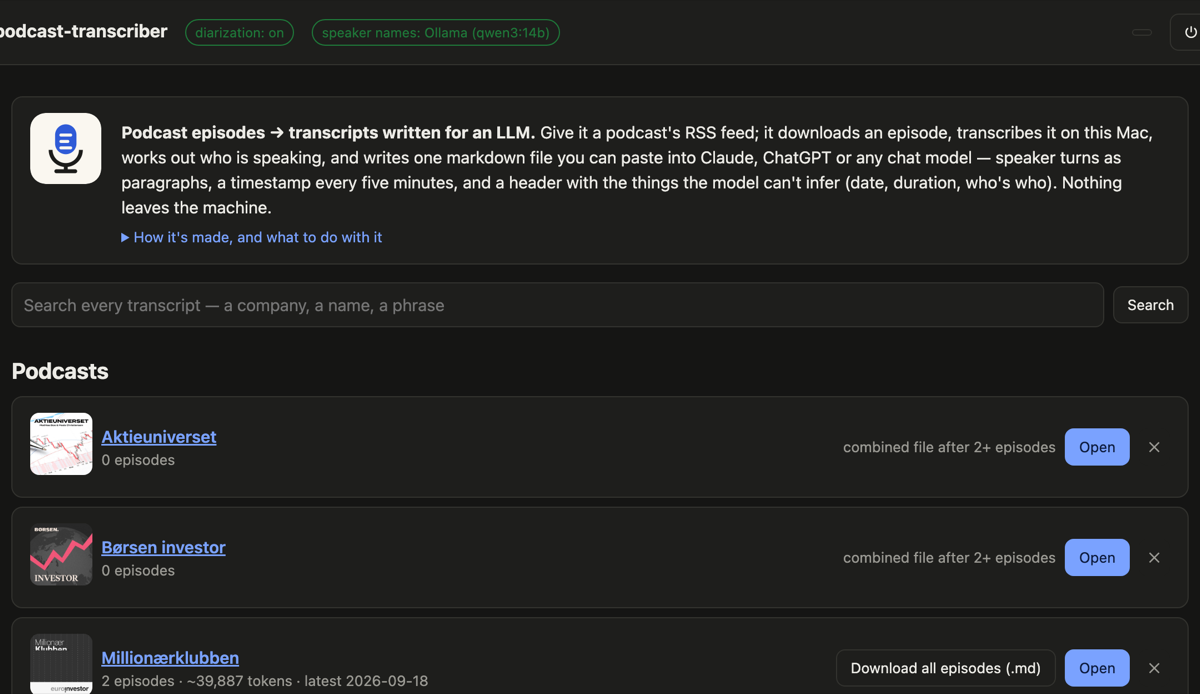
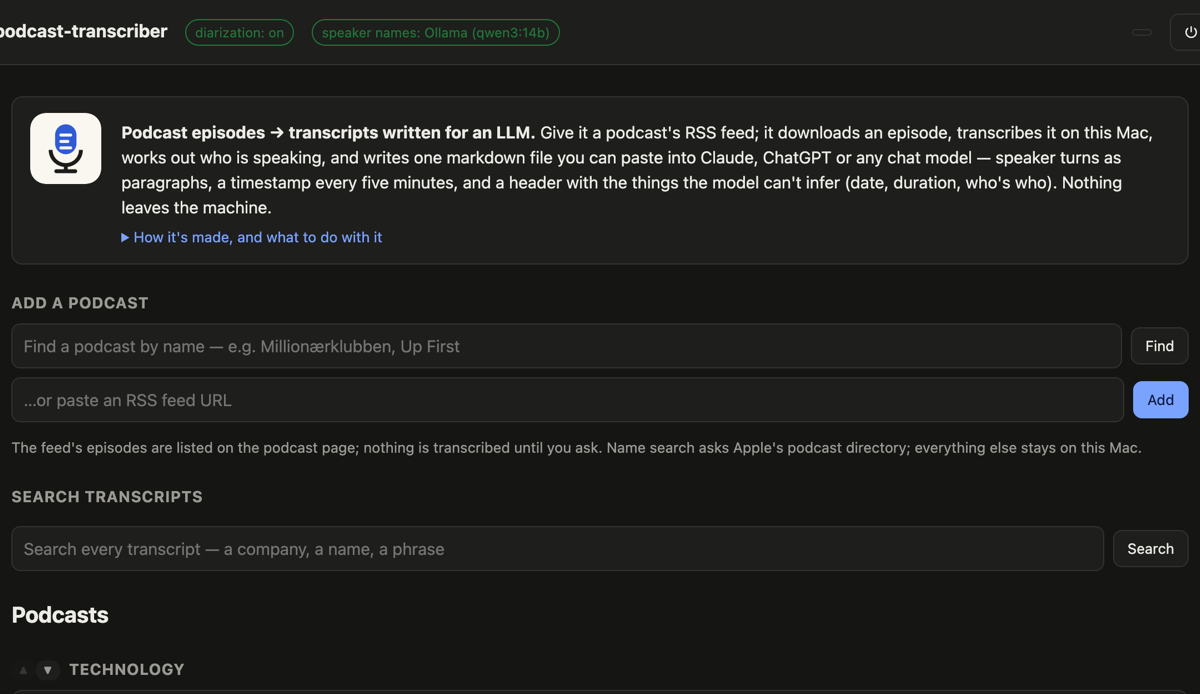
Podcast Transcriber: word-level playback, category grouping; thumbnail of the reordered landing page

diff --git a/index.html b/index.html
@@ -489,7 +489,7 @@
         <li class="app has-thumb">
           <figure class="thumb"><img src="img/podcast-transcriber.png" alt="Podcast Transcriber web UI listing two podcasts with episode counts and token totals" loading="lazy"></figure>
           <h3>Podcast Transcriber</h3>
-          <p>Find a podcast by name (or paste its RSS feed) and it turns each episode into one Markdown file written for a chat model: speaker turns as paragraphs, a labelled chapter every five minutes, and a header with the date, who's who, a short summary and topic tags. An hour of talk is about 20k tokens. Whisper large-v3 runs on the Apple GPU, pyannote separates the voices, and a local LLM (or Claude) names them and writes the summary. Search any phrase across every transcript and play that moment of the audio to check a quote; new episodes can transcribe themselves hourly. Built for Danish, works for any language Whisper knows. Terminal, browser or Mac app — nothing leaves the machine except the podcast lookup.</p>
+          <p>Find a podcast by name (or paste its RSS feed) and it turns each episode into one Markdown file written for a chat model: speaker turns as paragraphs, a labelled chapter every five minutes, and a header with the date, who's who, a short summary and topic tags. An hour of talk is about 20k tokens. Whisper large-v3 runs on the Apple GPU, pyannote separates the voices, and a local LLM (or Claude) names them and writes the summary. Search any phrase across every transcript and play that moment of the audio, the text following word by word, to check a quote; podcasts sit grouped by category, and new episodes can transcribe themselves hourly. Built for Danish, works for any language Whisper knows. Terminal, browser or Mac app — nothing leaves the machine except the podcast lookup.</p>
           <div class="tags"><span class="tag">Podcast to text</span><span class="tag">Whisper + LLM</span><span class="tag">macOS</span><span class="tag">Runs locally</span></div>
           <a class="button soon" href="mailto:github@schuleit.dk?subject=Access%20request%3A%20Podcast%20Transcriber&amp;body=Hi%20Alex%2C%0A%0AI%27d%20like%20access%20to%3A%20Podcast%20Transcriber%0AMy%20GitHub%20profile%20name%3A%20%0A%0AThanks">Request access</a>
         </li>
